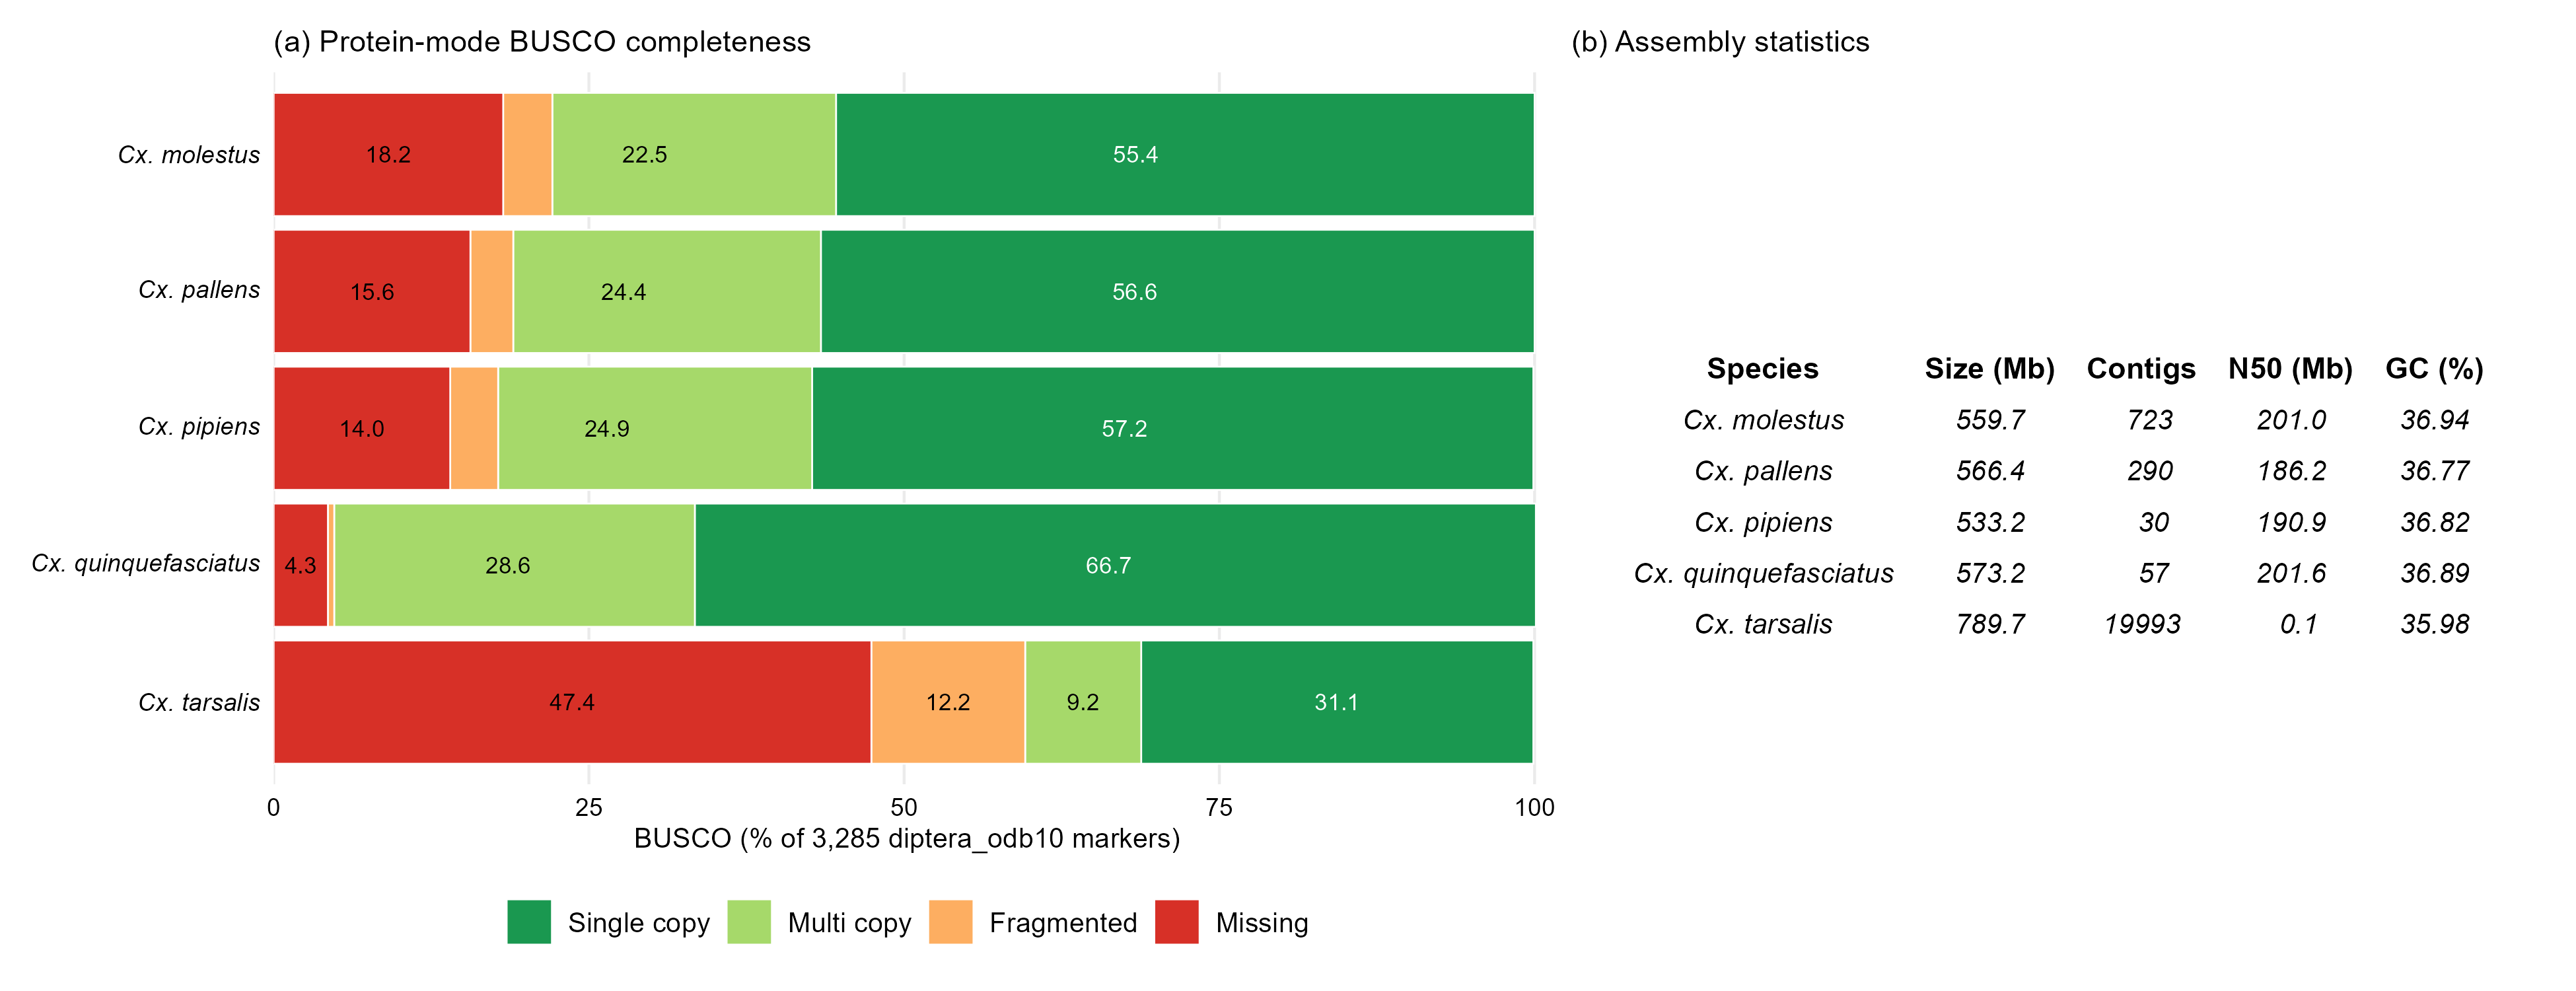
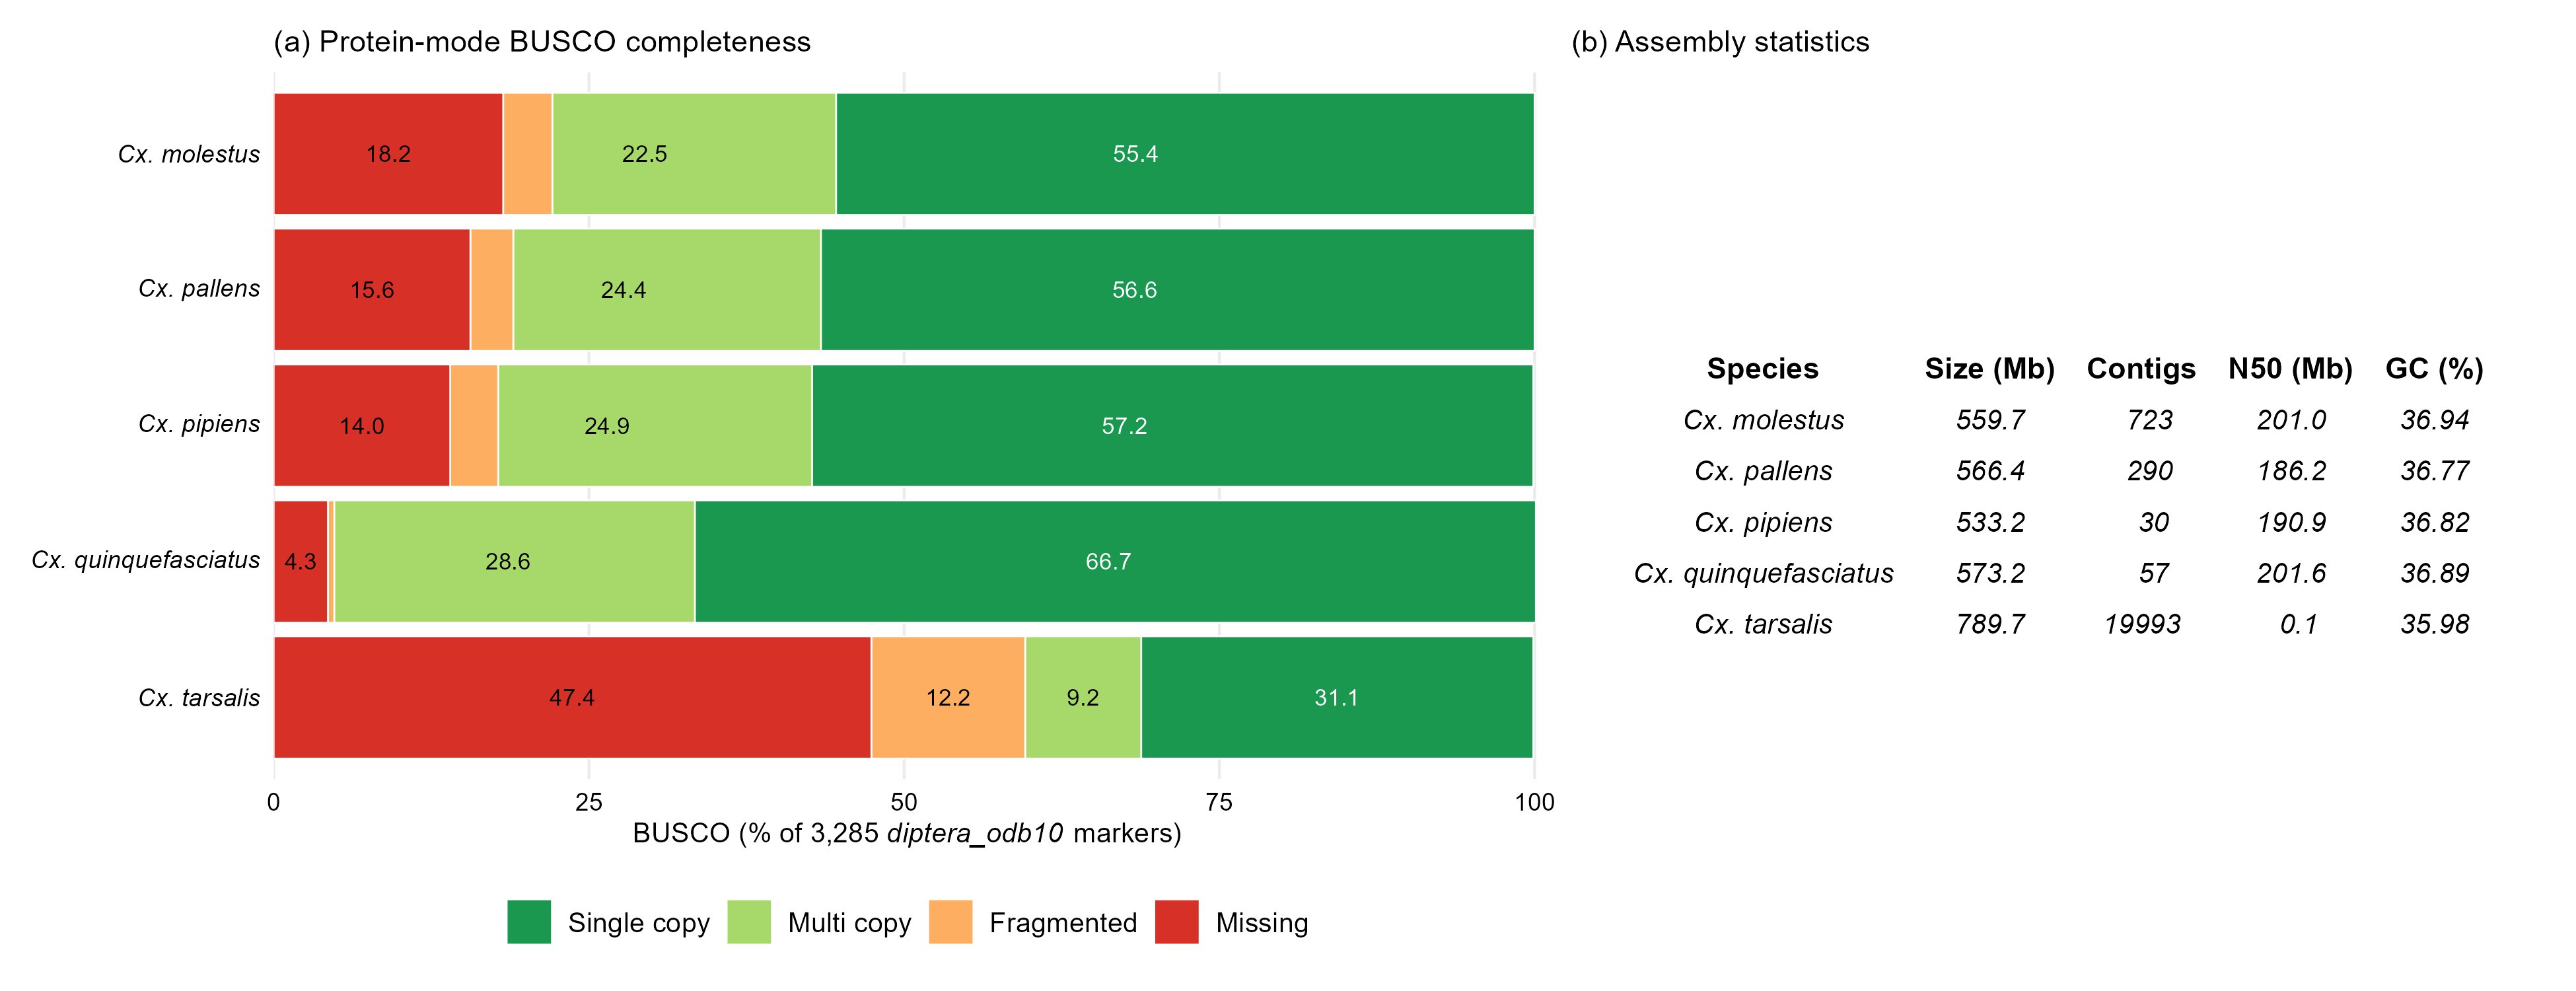
Manuscript draft 5: add Cx. tarsalis ANI finding, 4th author, Figure 1 italics fix, editorial revisions; add PDF
- Regenerated Figure 1 with italic diptera_odb10 axis label (make_all_figures.R fix)

- Completed skani ANI run incl. Cx. tarsalis (below detection floor); matrix saved

- Added Kyle Kosinski as 4th author (IRMCD) + author-contributions entry

- Fixed artifacts, number inconsistencies, captions; standardized US spelling

- Added manuscript PDF and tracked/clean docx drafts; added editorial review

diff --git a/bioRxiv_Submission_Checklist.md b/bioRxiv_Submission_Checklist.md
@@ -1,0 +1,113 @@
+# bioRxiv Submission Checklist
+### *Pangenome Analysis Reveals Gene Content Variation and Evolutionary Dynamics Across the* Culex pipiens *Species Complex*
+
+Prepared for submission at **https://www.biorxiv.org/submit-a-manuscript**. Work through the sections in order. Items marked **[YOU]** require your action (login, consent, final submit) — these cannot be done on your behalf.
+
+---
+
+## 0. Before you start — what I can and cannot do
+
+- **I can:** prepare/verify all files (PDF, figures, tables), draft the metadata text (abstract, author list, summary), and walk you through the form.
+- **I cannot:** log into your bioRxiv/account, accept the license or terms, enter author email verifications, or click the final **Submit** button. bioRxiv requires the submitting author to do these. **[YOU]** owns every consent/submit step.
+
+---
+
+## 1. Account & corresponding author **[YOU]**
+
+- [ ] Log in (or register) at bioRxiv with an **institutional email** if possible.
+- [ ] Corresponding author on the manuscript is **Tyler Maire — [email redacted]** (confirm this inbox is monitored; bioRxiv sends the confirmation + DOI here).
+- [ ] Have an **ORCID iD** ready for at least the submitting author (bioRxiv prompts for it; recommended).
+
+---
+
+## 2. Files to upload
+
+bioRxiv accepts a single PDF of the main text **or** a manuscript file plus separate figures. The simplest, lowest-risk path is the **single combined PDF** (already prepared).
+
+**Main manuscript (required):**
+- [ ] `Culex pipiens Pangenome Analysis.pdf` — 24 pages, figures + tables embedded, US Letter. ✅ generated from the clean draft 5. **This is the file to upload as the manuscript.**
+
+**Figures (bioRxiv prefers high-res individual files; optional if using the combined PDF, but recommended):**
+- [ ] Figures 1–9 are in `figures/` as both `.pdf` and `.png` (300 dpi).
+- [ ] ⚠️ **Figure 1 caveat:** the embedded Figure 1 in the PDF is the corrected version with *diptera_odb10* in italics. The standalone `figures/Figure_1_assembly_quality.png` was regenerated to match, but **verify the standalone `Figure_1_assembly_quality.pdf` is the italic version before uploading it separately** (re-run `make_all_figures.R` if unsure, or just rely on the combined PDF). Do **not** upload `Figure_1_v2_italic.png` under a figure-1 slot if you also upload the standard one — pick one.
+
+**Supplementary material:**
+- [ ] `figures/Sup Material/Supplementary_Tables.xlsx` — Supplementary Tables S1–S8.
+- [ ] `figures/Sup Material/Figure_S1_synteny_dotplots.pdf` — Supplementary Figure S1.
+- [ ] `figures/Sup Material/Figure_S2_pipeline_flowchart.pdf` — Supplementary Figure S2.
+- [ ] Upload these in the **Supplementary Material** section (not as main figures).
+
+---
+
+## 3. Metadata to enter in the form
+
+**Title** (paste exactly):
+> Pangenome Analysis Reveals Gene Content Variation and Evolutionary Dynamics Across the *Culex pipiens* Species Complex
+
+**Authors & affiliations** (enter in this order; mark Tyler as corresponding):
+1. Tyler Maire — ¹ University of Maryland Global Campus; ² Indian River Mosquito Control District, Vero Beach, FL, USA *(corresponding; [email redacted])*
+2. Erin Maley — ¹ University of Maryland Global Campus
+3. Theresa Miller — ¹ University of Maryland Global Campus
+4. Kyle Kosinski — ² Indian River Mosquito Control District, Vero Beach, FL, USA
+
+- [ ] Add each author with first/last name and affiliation number(s).
+- [ ] **[YOU]** Confirm every co-author consents to posting (bioRxiv emails co-authors; they must not object).
+
+**Abstract** — paste the abstract from the manuscript (the ~290-word paragraph beginning "The *Culex pipiens* species complex contains the principal northern-hemisphere vectors…"). *Note: bioRxiv's abstract box may strip italics; that's fine for the preprint.*
+
+**Subject area / category** (bioRxiv requires one):
+- [ ] Primary: **Genomics** *(best fit)* — alternatives: **Evolutionary Biology** or **Bioinformatics**.
+
+**Keywords:** Culex pipiens; species complex; pangenome; phylogenomics; gene family evolution; hybrid origin; West Nile virus
+
+---
+
+## 4. Declarations (the form asks for each)
+
+- **Funding:** "This research received no external funding." (matches manuscript)
+- **Competing interests:** "The authors declare no competing interests." (matches manuscript)
+- **Data availability:** Code + intermediate results at **https://github.com/tylermaire/cx_pipiens_pangenome** ; genome assemblies via NCBI accessions (Table 1) and the *Cx. tarsalis* CtarK1 assembly via OSF **https://osf.io/mdwqx**.
+  - [ ] ⚠️ **Make the GitHub repo public** before submitting (reviewers/readers must be able to reach it). Confirm it's not private.
+- **Ethics:** Not applicable (no human/animal subjects; public genome data only).
+
+---
+
+## 5. License (choose one) **[YOU]**
+
+bioRxiv requires you to pick a reuse license. Common choices:
+- **CC-BY 4.0** — most permissive, maximizes reuse/visibility (often required if you later submit to certain journals).
+- **CC-BY-NC-ND 4.0** — no commercial use, no derivatives.
+- **CC0** — public domain dedication.
+- **"No reuse" / All rights reserved** — bioRxiv's most restrictive option.
+
+- [ ] **[YOU]** Pick the license. If you may submit this to a journal later, check that journal's preprint policy first; **CC-BY** is the safe default for broad compatibility. *(I can't choose this for you.)*
+
+---
+
+## 6. Final pre-flight checks
+
+- [ ] Author list and order match the manuscript (4 authors, Kyle 4th).
+- [ ] Corresponding email is **.org** (fixed) and reachable.
+- [ ] GitHub repo is **public** and the latest commit (with the PDF + figure fixes) is pushed.
+- [ ] Combined PDF opens and all 9 figures + 2 tables render (verified: 24 pp).
+- [ ] Supplementary files attached in the supplementary section, not as main figures.
+- [ ] Competing-interests and funding statements entered.
+- [ ] License selected.
+
+---
+
+## 7. Submit **[YOU]**
+
+- [ ] Review bioRxiv's PDF proof it auto-generates (it converts your upload). Check figures/tables survived conversion.
+- [ ] Click **Submit**. bioRxiv screens for non-science/plagiarism (1–2 business days) before posting; you'll get the DOI by email at [email redacted].
+
+---
+
+## Outstanding items worth deciding before you post (optional, from the editorial review)
+
+These are *not* blockers for a preprint, but bioRxiv posts are citable and semi-permanent — consider whether to address first:
+- The hybrid-origin claim still rests on concordance factors (no formal D-statistic). The text frames it as "consistent with" prior evidence, which is defensible for a preprint.
+- Abstract still ~290 words and notes "first pangenome" — fine for bioRxiv; a target journal may want the abstract trimmed and the novelty claim hedged ("first chromosome-scale comparative pangenome").
+- A few framing items (the "pangenome" terminology caveat, "rooting is assumed") remain in the discussion but not the abstract.
+
+If you want any of these addressed before posting, tell me and I'll do them; otherwise the current draft 5 is submission-ready as a preprint.

diff --git a/Editorial_Review_draft2.md b/Editorial_Review_draft2.md
@@ -1,0 +1,108 @@
+# Editorial Review — *Pangenome Analysis Reveals Gene Content Variation and Evolutionary Dynamics Across the* Culex pipiens *Species Complex*
+
+**Reviewer stance:** Read as a handling editor + methods reviewer at a journal such as *Insects*, *G3*, *BMC Genomics*, or *Genome Biology and Evolution*. Overall this is a competent, well-organized, methodologically transparent manuscript with a genuinely interesting central claim (chromosome-scale corroboration of a hybrid origin for *Cx. pallens*). The reproducible Snakemake workflow is a real strength. My recommendation would be **major revision** — not because the science is weak, but because of (1) several internal-consistency errors and leftover editing artifacts that must be fixed before review, (2) a handful of framing/scope claims that need softening or support, and (3) some stylistic patterns that read as machine-generated and will draw reviewer suspicion. None of these are fatal.
+
+Issues are grouped by severity. Verified items were checked computationally against the manuscript's own numbers.
+
+---
+
+## A. Must-fix before submission — errors and artifacts (a reviewer will see these immediately)
+
+These are the ones that would make me, as an editor, question how carefully the manuscript was prepared.
+
+**A1. Two stray "?" editing marks left in the body text.** These look like unresolved author queries and *must* go:
+- §1, ¶2 (Introduction): *"these differences have profound epidemiological consequences: **form? molestus** is implicated as a critical bridge vector…"* — should read "the *molestus* form" or "*Cx. p. molestus*".
+- §3.2 (Pangenome architecture): *"92,821 genes (98.2 % of ingroup gene calls) were assigned to **15,881 ? orthogroups**…"* — delete the stray "?". (The number 15,881 is correct; see A2.)
+
+**A2. "Core" numbers are internally inconsistent / conflated.** In §3.2:
+- Text: "11,284 core … orthogroups" (this is correct; 11,284 + 3,726 + 871 = 15,881 ✓, and 71.1/23.5/5.5 % ✓).
+- Same paragraph: "core orthogroup membership was essentially identical across forms (**11,275** orthogroups containing core members per species)". The 11,275 vs 11,284 discrepancy is unexplained — pick one and explain the 9-orthogroup difference, or make the wording consistent.
+- Table 1 "Core genes" column lists ~18,450–19,439 per form. These are **genes**, but the text discusses **core orthogroups** (~11,275). Readers will collide these two numbers. Clarify in the Table 1 caption and §3.2 that one is gene counts and the other orthogroup counts, and make sure the relationship (≥11,275 orthogroups containing 18,476 genes in *molestus*, etc.) is stated explicitly.
+
+**A3. Table 1 vs Methods protein-count ordering.** Methods §2.2 reports protein totals as "24,531 (*Cx. quinquefasciatus*), 23,089 (*Cx. pallens*), 23,199 (*Cx. molestus*), 23,738 (*Cx. pipiens*) and 20,026 (*Cx. tarsalis*)." Table 1's "Proteins" column matches, but §3.1 says the range runs "from 23,089 (*Cx. pallens*) to 24,531." That's fine, but double-check every place the per-form protein counts appear — there are at least four — so they're identical throughout. (I verified the values are mutually consistent; the risk is transcription drift across sections.)
+
+**A4. Author contributions omit two of the four authors.** The CRediT statement lists only T.M., E.M., and T.Mi. With **Kyle Kosinski now added as the 4th author, K.K. must appear** (e.g., "K.K.: Writing – review & editing" or whatever is accurate). Also note E.M. and T.Mi. are each credited only with "Writing – review & editing" — journals increasingly query whether co-authors meet authorship criteria with review/editing alone. Confirm their contributions are fully and accurately described.
+
+**A5. Correspondence email domain mismatch.** Correspondence is given as `[email redacted]`, but the institution is the Indian River Mosquito Control District and the editor comments came from `…@irmcd.org`. Verify `.com` vs `.org` — a bounced corresponding-author email is a real submission problem.
+
+**A6. Title has a hard line break mid-sentence.** The title is split across two paragraphs ("…Gene Content Variation and" / "Evolutionary Dynamics Across the *Culex pipiens* Species Complex"). Make sure this is a single title field, not two paragraphs, or it will mis-import into submission systems and reference managers.
+
+**A7. Reference / citation housekeeping.**
+- "RepeatMasker Open-4.0 (Smit et al., **2013–2015**)" — a date range as a citation year is unusual for most journals; many will want a single year or "Smit, Hubley & Green 2013–2015. RepeatMasker Open-4.0. http://www.repeatmasker.org" with an access date. Also confirms the text cites it as "Smit et al., 2013–2015".
+- *Vinogradova 2000, 2003* and *Smith & Fonseca 2004* are cited in text and present in the list — good — but they are **not in the verified reference set I was given earlier**; double-check each against the actual source (volume/pages) since they were not part of the previously verified bibliography.
+- Confirm every Supplementary item (S1–S8, Figs S1–S2) actually exists and is uploaded; the text references all of them.
+
+---
+
+## B. Scientific / framing issues a reviewer will push on
+
+**B1. "Pangenome" terminology applied across species.** You pre-empt this well in §1 ("it is in this clade-level sense that we use the term") and §4.1, and that's the right instinct — but a hardline reviewer will still object that a four-genome, between-species "pangenome" is really a comparative orthology/gene-content analysis. Consider stating the caveat once more in the Abstract (a single clause) so it isn't seen as overclaiming in the part most people read.
+
+**B2. The headline hybrid-origin claim rests on concordance factors alone.** The discordance signal (gCF 58.9 %, sCF 45.1 %, near-balanced alternative quartets) is genuinely suggestive, and you are appropriately careful ("consistent with", "molecular signature expected when"). But you explicitly note you have **not** run the formal tests that would distinguish ILS from introgression (D-statistics / ABBA-BABA, phylogenetic networks, *Dsuite*, QuIBL, HyDe). A reviewer will almost certainly ask why these weren't run, since the input data (SCO alignments, gene trees) are already in hand. Two options: (a) run at least one formal introgression test and report it, which would substantially strengthen the central claim; or (b) soften the framing further and frame the hybrid-origin support as "corroborating prior population-genetic evidence" rather than independent genomic demonstration. Option (a) is the stronger paper. With n = 4 ingroup taxa a four-taxon D-statistic with *Cx. tarsalis* as outgroup is directly feasible.
+
+**B3. Four-taxon design and rooting.** §4.1 defends the four-genome panel honestly. The weak point you flag yourself: *Cx. tarsalis* "does not enter the concatenation SCO phylogeny at sufficient density," so the ingroup tree is effectively **unrooted** and "Tree rooting is illustrative" (Fig. 3 caption). That means the directionality of the (*pallens*+*quinquefasciatus*) vs (*pipiens*+*molestus*) split — central to the hybrid-origin narrative — is not actually established by your tree. Be explicit in §3.3/§4.2 that the rooting is assumed from prior work, not demonstrated here, and temper any language implying you *resolved* the root.
+
+**B4. ANI / *Cx. tarsalis* omission framed as a transient glitch.** §3.5 and Methods §2.6 attribute the missing *Cx. tarsalis* ANI to "a transient genome-download failure in the analysis environment." Reviewers dislike seeing pipeline/infrastructure excuses in a results section — it reads as incomplete analysis. Since you clearly have the *Cx. tarsalis* assembly (it's in BUSCO, QUAST, and the orthology partition), just **run skani on it** and complete the matrix; it's a one-command fix and removes an obvious reviewer target. Same applies to the synteny analysis excluding *Cx. tarsalis*.
+
+**B5. Alignment-based ANI methodology is heterogeneous.** §2.6: for three pairs ANI comes from Liftoff gene-set alignments (60–75 Mb CDS), for the other three from "partial chromosome-1 alignments (first ~2 Mb)." Mixing a 60–75 Mb basis with a ~2 Mb basis across pairs of the *same* matrix is methodologically uneven and a reviewer will flag it. Either compute all six pairs on a consistent basis or drop the alignment-based matrix to supplementary with an explicit "cross-check only, non-uniform basis" caveat (you partly do this, but the unevenness should be stated plainly).
+
+**B6. Inversion calls are acknowledged to be noisy.** §3.5 candidly says many small inversions "likely combine bona fide micro-inversions with annotation-projection noise." Good. But you still report "258–294 candidate inversions ≥ 100 kb per pair" in the Abstract and Conclusions as if it were a clean result. Consider reporting only the high-confidence large blocks (≥ 1 Mb) as headline numbers and relegating the full counts to "candidate" status in supplementary, so the abstract isn't carrying a number you partly disavow in the results.
+
+**B7. §3.8 "Key gene families" is keyword-match shallow.** Copy numbers are derived from "gene-name keyword matches to the Liftoff-transferred annotations." For detoxification/chemosensory/immunity families — which are exactly the families prone to mis-annotation and naming inconsistency after annotation transfer — keyword matching is a weak method and a reviewer in vector biology will say so. Either add a sentence acknowledging this limitation explicitly, or buttress with an HMM/orthogroup-based count for at least the headline families (P450, OR).
+
+**B8. CAFE interpretation: expansion bias may be partly methodological.** Every branch shows 2.5–5.1× expansion bias. Universal, strong expansion across *all* lineages can be an artifact of (i) using the *Cx. quinquefasciatus* RefSeq as the annotation source (reference-bias inflating its counts) combined with (ii) Liftoff under-transfer in the others, or (iii) the gene-count table including many small/spurious orthogroups. You note the ranking "mirrors the order of lineage protein-count totals" — which is itself a hint that the signal may track annotation completeness rather than biology. Add a sentence addressing whether the expansion bias survives correction for annotation-source asymmetry, or temper the claim.
+
+**B9. Abstract reports "first pangenome" — confirm novelty claim.** "First pangenome characterisation of the … *Cx. pipiens* complex" is a strong priority claim. Make sure it's still true at submission (do a final literature check), and consider "first chromosome-scale comparative pangenome" to be precise and defensible.
+
+---
+
+## C. AI / automation tells (will draw reviewer or screening-tool suspicion)
+
+You asked specifically for these. None individually proves machine assistance, but the **cluster** is what reads as generated. In order of how noticeable they are:
+
+**C1. A near-verbatim sentence is repeated three times.** "*…the largest set of form-restricted [cloud orthogroups / clusters] despite having an intermediate total protein count*" appears in §3.2, §3.7, and §3.8 (the phrase "despite having an intermediate total protein count" occurs **3×**). Human authors vary their phrasing on re-statement; verbatim repetition of a distinctive clause is one of the strongest tells here. Reword two of the three.
+
+**C2. Heavy reliance on a small set of interpretive hedges.** "consistent with" appears **10×** (4× as "is consistent with"), plus "expected when" 3×, "suggests/suggesting that" 3×. This hedge-cluster is characteristic of generated scientific prose. Keep the caution, but vary the constructions and cut redundant hedging.
+
+**C3. Flowery interpretive flourishes that don't match the surrounding terse methods voice.** "on its face, paradoxical"; "the molecular **fingerprint** expected"; "molecular **signature**"; "molecular **corroboration**"; "strikingly uniform" (2×); "remarkable conservation." These rhetorical phrases are a stylistic register shift from the otherwise dry, quantitative writing — a common signature of AI-assembled drafts. Trim to one such phrase per section at most.
+
+**C4. Self-referential "§" cross-references throughout (11×), including "we return to this in §4."** Internal "§3.2"/"§4" pointers and "we develop this interpretation in the Discussion" are unusually dense and read like an outline that was filled in. Most journals also prefer "Section 3.2" or "(see Discussion)" over the "§" glyph. Reduce the density and convert "§" to the journal's house style.
+
+**C5. Methods describe the *computing environment* rather than just the method.** Phrases like "owing to a transient genome-download failure in the analysis environment" and "for the remaining three pairs, partial chromosome-1 alignments … were generated de novo" expose the ad-hoc, iterative way the analysis was run. Real methods sections describe what was done as a finished protocol, not the troubleshooting history. Rewrite B4/B5 items as clean protocol statements.
+
+**C6. Over-explained rationale.** §4.1 opens "the rationale is worth making explicit because it shapes the interpretive weight of every result that follows," and §2 frequently explains *why* a standard step was done (e.g., why concordance factors expose disagreement, why an outgroup makes a partition rootable). This tutorial register — explaining textbook rationale to the reader — is a mild AI tell and also costs words. Assume an expert reader; cut the justifications for standard choices.
+
+**C7. Minor mechanical tells.** Space-before-percent ("98.2 %") appears 69× — fine if consistent with house style, but several journals set "98.2%"; pick one. British/American spelling is mixed ("characterisation", "hybridisation", "behavioural" vs "visualization", "recognized") — **standardize to one** (the journal will specify; many *Culex* venues are US English). This mix is itself a subtle tell that text came from multiple sources.
+
+---
+
+## D. Smaller points / polish
+
+- **Abstract is one ~290-word block.** Many journals cap abstracts at 200–250 words and/or want it structured. Tighten.
+- **"CtarK1 … OSF mirror as a special case" (§2.1)** reads as pipeline-speak ("special case"). Reframe for a reader: explain the NCBI accession was reassigned and you used the authors' OSF deposit instead.
+- **Figure 3 caption** says rooting "is illustrative; *Cx. tarsalis* does not enter the supermatrix at sufficient density." Good honesty, but see B3 — make the body text equally clear.
+- **Highlights** bullet "~53% transposable-element content" vs body "52.69–54.43% interspersed repeats (+~3% simple/low-complexity)". The ~53% figure conflates interspersed-only with total — make the highlight and body use the same definition.
+- **"medically-important"** (hyphenated, 3×) — most style guides write "medically important" (no hyphen after an -ly adverb). Minor but a copyeditor will change every instance.
+- **Define abbreviations on first use** consistently: SCO, gCF/sCF, ILS, NNI, ANI, TE, CRediT initials. Most are defined, but verify NNI (§3.3) and minbit (§3.7) are spelled out.
+- **"~99 % of total assembly span" / "~50% TE content"** — make sure tilde-approximations in methods are replaced with the actual computed values where you have them.
+
+---
+
+## E. What's genuinely good (keep)
+
+So the review isn't all red ink:
+- The **reproducible Snakemake + Conda workflow with a tagged commit and bundled intermediates** is exactly what reviewers want and is better than most comparable papers.
+- **Internal quantitative consistency is high** — I recomputed the core/shell/cloud sum (15,881 ✓), the percentages (71.1/23.5/5.5 ✓), all four CAFE expansion ratios (5.1/4.2/3.0/2.5 ✓), the ANI mean (93.87 % ✓), and the anvi'o core fraction (56.5 % ✓), and they all check out.
+- The **anvi'o cross-validation of the OrthoFinder partition** (§3.7, convergent 16,673 vs 15,881) is a nice methodological control.
+- The **honest limitations section** (§4.5) and the explicit defense of the small panel (§4.1) show scientific maturity — they just need the AI-register trimmed.
+- The **hybrid-origin synthesis** (§4.2) is well-sourced and is the paper's strongest contribution.
+
+---
+
+## Suggested priority order for revision
+
+1. Fix all artifacts and inconsistencies in **A1–A7** (fast, mandatory).
+2. Complete the *Cx. tarsalis* **ANI + synteny** (B4) and run **one formal introgression test** (B2) — these two additions most strengthen the paper.
+3. Revise the **AI-tell language** in **C1–C6** (reword the 3× repeated sentence first).
+4. Soften/clarify rooting and "pangenome" framing (B1, B3).
+5. Copyedit pass for spelling consistency, hyphenation, and abstract length (C7, D).